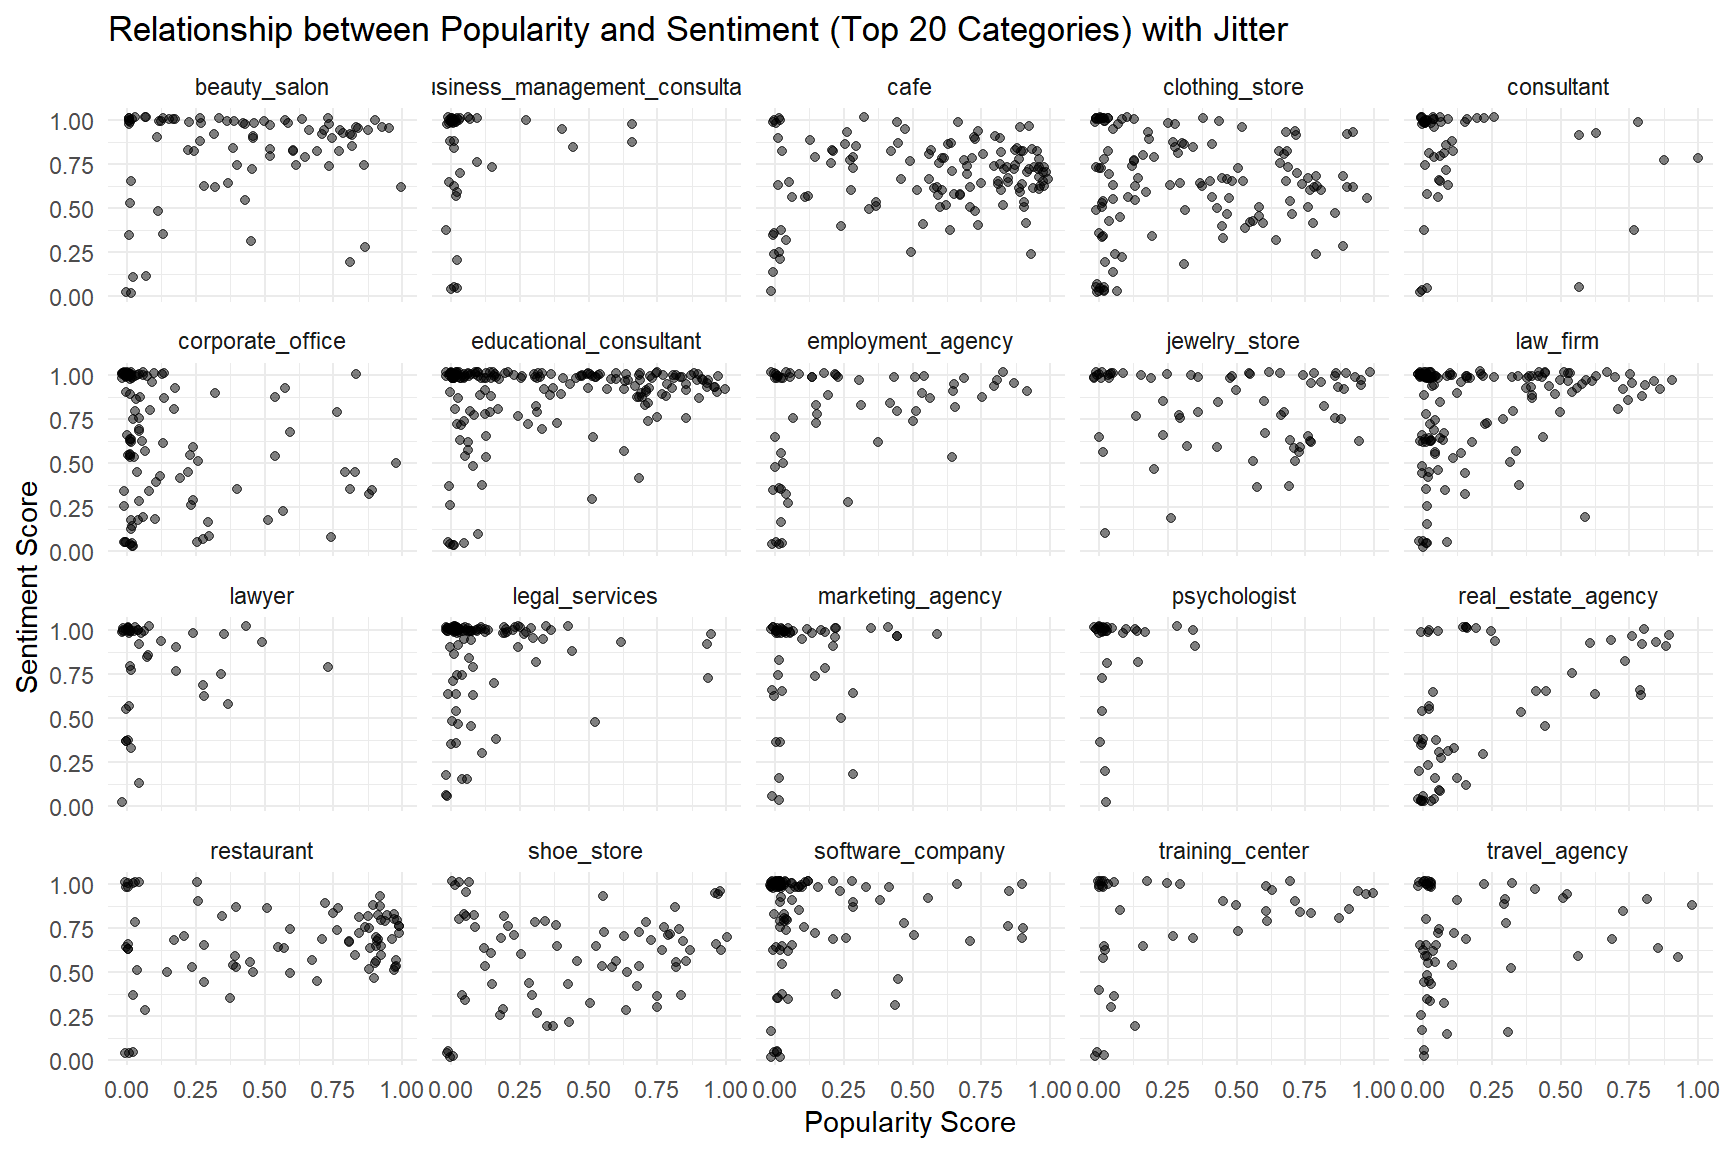
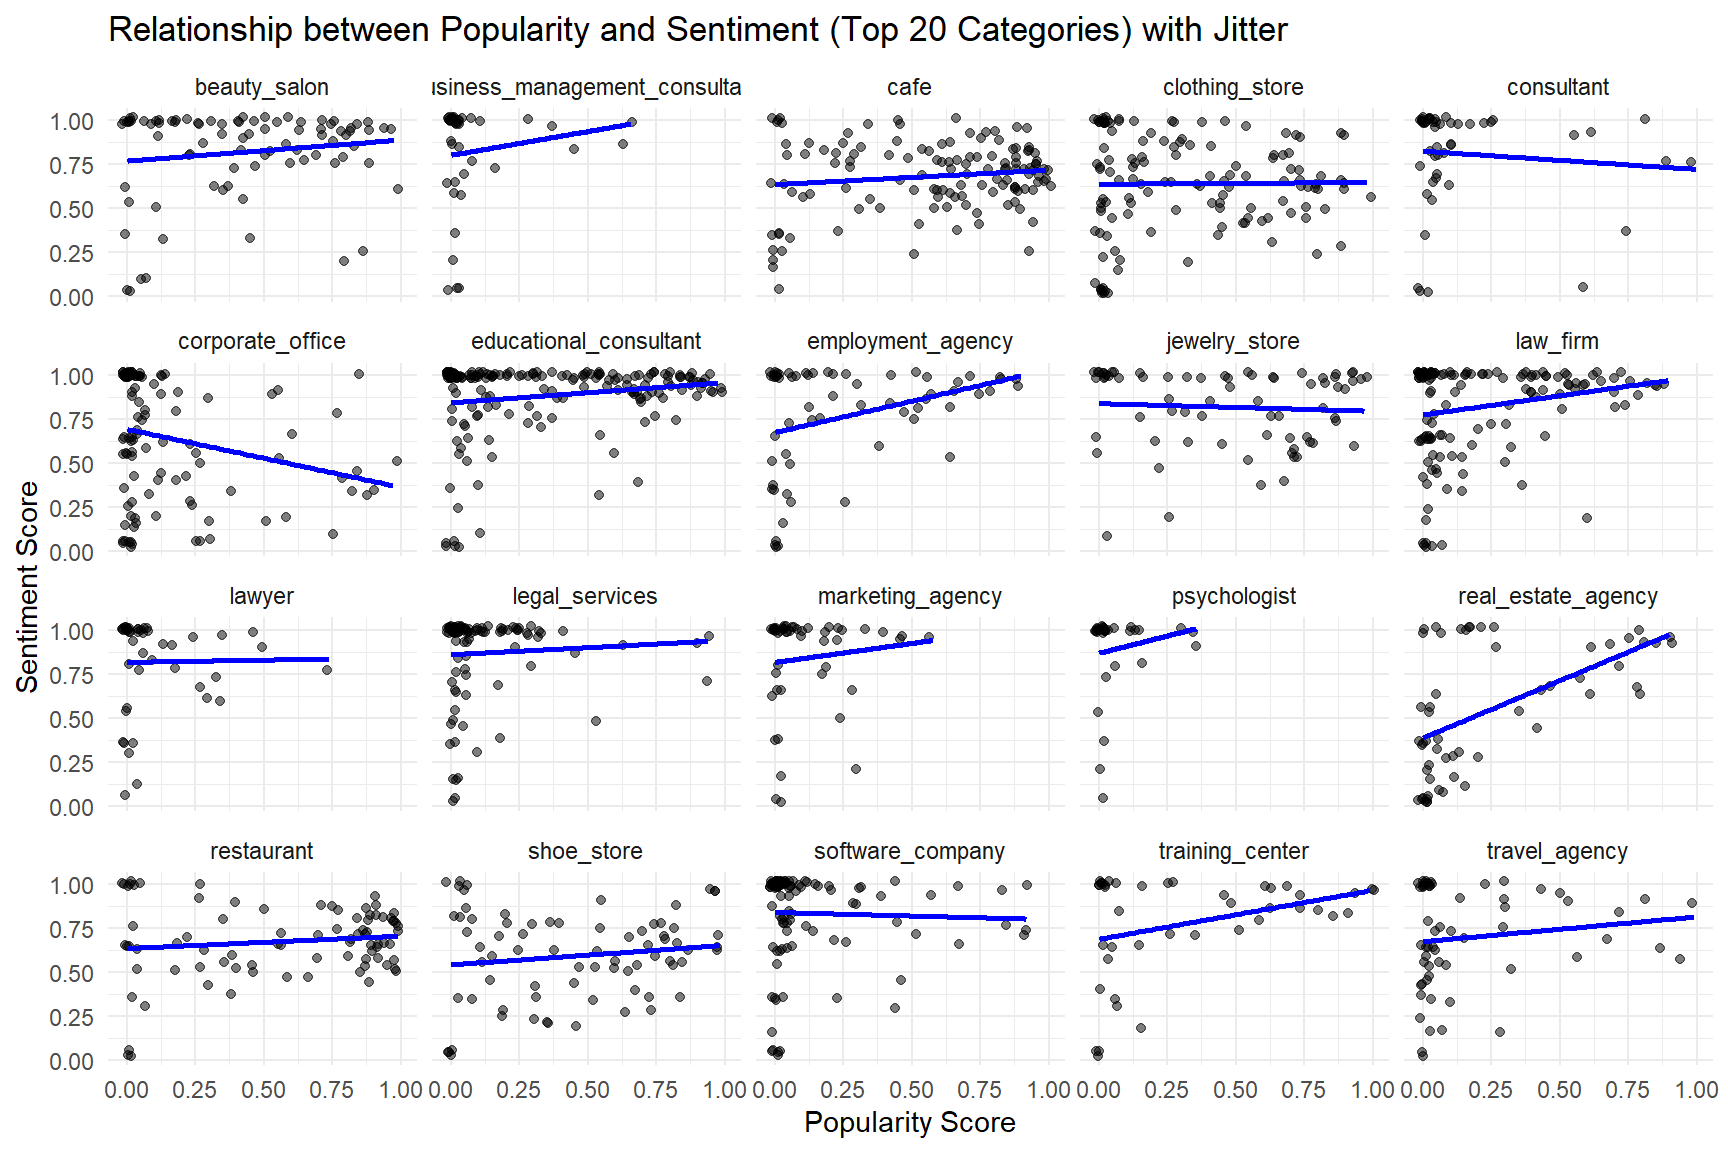
s

diff --git a/docs/index.html b/docs/index.html
@@ -12,7 +12,7 @@
 <meta name="author" content="Sebastián Sánchez Cuartas" />
 
 
-<title>Take-Home Assessment</title>
+<title>Technical Assessment: Data Analysis Exercise for Candidate Evaluation</title>
 
 <script src="site_libs/header-attrs-2.14/header-attrs.js"></script>
 <script src="site_libs/jquery-3.6.0/jquery-3.6.0.min.js"></script>
@@ -423,7 +423,8 @@ div.tocify {
 
 
 
-<h1 class="title toc-ignore">Take-Home Assessment</h1>
+<h1 class="title toc-ignore">Technical Assessment: Data Analysis
+Exercise for Candidate Evaluation</h1>
 <h4 class="author">Sebastián Sánchez Cuartas</h4>
 
 </div>
@@ -445,6 +446,84 @@ blockquote {
 }
 </style>
 <p>_____________________________________________________________________________________________________________________________________</p>
+<div id="assignment-overview" class="section level2">
+<h2><strong>Assignment Overview</strong></h2>
+<p>The goal of this assessment is to evaluate the candidate’s technical
+and analytical skills. The task involves analyzing a sample dataset from
+a client in the Consumer-Packaged Goods (CPG) sector to generate
+actionable insights. Here are the details provided for the
+assignment:</p>
+<p><strong>Task Details</strong></p>
+<ul>
+<li><strong>Objective</strong>: Identify patterns in the data that can
+inform the client’s marketing and supply chain strategies.</li>
+<li><strong>Tools</strong>: You may use R, Python, or any
+object-oriented programming language.</li>
+<li><strong>Time Limit</strong>: 3 hours. While time management is part
+of the evaluation, the quality of the analysis is prioritized.</li>
+</ul>
+<p><strong>Deliverables</strong></p>
+<ul>
+<li>A Jupyter Notebook or R script with the complete analysis and
+code.</li>
+<li>A brief report (1-2 pages) summarizing findings and recommendations
+for the CPG client.</li>
+</ul>
+<p>_____________________________________________________________________________________________________________________________________</p>
+</div>
+<div id="technical-assessment" class="section level2">
+<h2><strong>Technical Assessment</strong></h2>
+<p><strong>Data Exploration &amp; Quality Control</strong></p>
+<ul>
+<li><div>
+<blockquote>
+<ul>
+<li><p>Load the dataset and explore its structure.</p></li>
+<li><p>Identify any missing values, duplicates, or
+inconsistencies.</p></li>
+<li><p>Provide a summary of the dataset, including variable types,
+record counts, and notable patterns.</p></li>
+<li><p>Ensure data quality for client presentation.</p></li>
+</ul>
+</blockquote>
+</div></li>
+</ul>
+<p><strong>Data Cleaning</strong></p>
+<ul>
+<li><div>
+<blockquote>
+<ul>
+<li><p>Address missing or inconsistent values, and document the
+approach.</p></li>
+<li><p>Standardize names, regions, and other key fields for accurate
+reporting.</p></li>
+</ul>
+</blockquote>
+</div></li>
+</ul>
+<p><strong>Exploratory Data Analysis (EDA)</strong></p>
+<ul>
+<li><div>
+<blockquote>
+<ul>
+<li><p>Conduct exploratory analysis to identify trends or
+patterns.</p></li>
+<li><p>Focus on key fields and present insights in the final
+report.</p></li>
+</ul>
+</blockquote>
+</div></li>
+</ul>
+<p><strong>SQL Query</strong></p>
+<ul>
+<li><div>
+<blockquote>
+<p>Write a SQL query to extract counts by the main category.</p>
+</blockquote>
+</div></li>
+</ul>
+<p>_____________________________________________________________________________________________________________________________________</p>
+</div>
 <div id="data-cleaning-and-preparation" class="section level2">
 <h2><strong>(1) Data Cleaning and Preparation</strong></h2>
 <div class="sourceCode" id="cb1"><pre class="sourceCode r"><code class="sourceCode r"><span id="cb1-1"><a href="#cb1-1" tabindex="-1"></a><span class="fu">library</span>(dplyr)</span>
@@ -676,11 +755,12 @@ Business Categories</strong></h2>
 <div class="sourceCode" id="cb13"><pre class="sourceCode r"><code class="sourceCode r"><span id="cb13-1"><a href="#cb13-1" tabindex="-1"></a><span class="co"># Faceted plot for the main business_categories using jitter to avoid overlap</span></span>
 <span id="cb13-2"><a href="#cb13-2" tabindex="-1"></a><span class="fu">ggplot</span>(data_top, <span class="fu">aes</span>(<span class="at">x =</span> popularity_score, <span class="at">y =</span> sentiment_score)) <span class="sc">+</span></span>
 <span id="cb13-3"><a href="#cb13-3" tabindex="-1"></a>  <span class="fu">geom_jitter</span>(<span class="at">alpha =</span> <span class="fl">0.5</span>, <span class="at">width =</span> <span class="fl">0.02</span>, <span class="at">height =</span> <span class="fl">0.02</span>) <span class="sc">+</span>  <span class="co"># Adjust &#39;width&#39; and &#39;height&#39; as needed</span></span>
-<span id="cb13-4"><a href="#cb13-4" tabindex="-1"></a>  <span class="fu">facet_wrap</span>(<span class="sc">~</span> business_category) <span class="sc">+</span></span>
-<span id="cb13-5"><a href="#cb13-5" tabindex="-1"></a>  <span class="fu">theme_minimal</span>() <span class="sc">+</span></span>
-<span id="cb13-6"><a href="#cb13-6" tabindex="-1"></a>  <span class="fu">xlab</span>(<span class="st">&quot;Popularity Score&quot;</span>) <span class="sc">+</span></span>
-<span id="cb13-7"><a href="#cb13-7" tabindex="-1"></a>  <span class="fu">ylab</span>(<span class="st">&quot;Sentiment Score&quot;</span>) <span class="sc">+</span></span>
-<span id="cb13-8"><a href="#cb13-8" tabindex="-1"></a>  <span class="fu">ggtitle</span>(<span class="st">&quot;Relationship between Popularity and Sentiment (Top 20 Categories) with Jitter&quot;</span>)</span></code></pre></div>
+<span id="cb13-4"><a href="#cb13-4" tabindex="-1"></a>  <span class="fu">geom_smooth</span>(<span class="at">method =</span> <span class="st">&quot;lm&quot;</span>, <span class="at">se =</span> <span class="cn">FALSE</span>, <span class="at">color =</span> <span class="st">&quot;blue&quot;</span>) <span class="sc">+</span></span>
+<span id="cb13-5"><a href="#cb13-5" tabindex="-1"></a>  <span class="fu">facet_wrap</span>(<span class="sc">~</span> business_category) <span class="sc">+</span></span>
+<span id="cb13-6"><a href="#cb13-6" tabindex="-1"></a>  <span class="fu">theme_minimal</span>() <span class="sc">+</span></span>
+<span id="cb13-7"><a href="#cb13-7" tabindex="-1"></a>  <span class="fu">xlab</span>(<span class="st">&quot;Popularity Score&quot;</span>) <span class="sc">+</span></span>
+<span id="cb13-8"><a href="#cb13-8" tabindex="-1"></a>  <span class="fu">ylab</span>(<span class="st">&quot;Sentiment Score&quot;</span>) <span class="sc">+</span></span>
+<span id="cb13-9"><a href="#cb13-9" tabindex="-1"></a>  <span class="fu">ggtitle</span>(<span class="st">&quot;Relationship between Popularity and Sentiment (Top 20 Categories) with Jitter&quot;</span>)</span></code></pre></div>
 <p><img src="index_files/figure-html/unnamed-chunk-6-1.png" width="100%" /></p>
 <div class="sourceCode" id="cb14"><pre class="sourceCode r"><code class="sourceCode r"><span id="cb14-1"><a href="#cb14-1" tabindex="-1"></a><span class="co"># Justification: Filtering the 20 most common categories helps focus the analysis on those with greater relevance. This avoids visual overload and facilitates the interpretation of the graphs and results.</span></span>
 <span id="cb14-2"><a href="#cb14-2" tabindex="-1"></a></span>
@@ -780,6 +860,94 @@ Open/Closed Status</strong></h2>
 ## 13        transportation_services            114
 ## 14                         travel            266
 ## 15                  uncategorized              3</code></pre>
+<p>_____________________________________________________________________________________________________________________________________</p>
+</div>
+<div id="data-analysis-report" class="section level2">
+<h2><strong>(10) Data Analysis Report</strong></h2>
+<p>This report is structured according to the points enumerated in the R
+code and corresponding graphics. The following presents the results and
+analysis:</p>
+<p>1.      <strong>Data Cleaning and Preparation</strong><br />
+Data cleaning and preparation were performed to ensure quality and
+consistency. This included removing duplicates, normalizing formats, and
+converting columns to appropriate data types.</p>
+<p>2.      <strong>Missing Values Visualization</strong><br />
+A visualization of missing values in the dataset was generated. This
+helped identify patterns of missing data, allowing for a quick
+assessment of the magnitude of missing values across different
+variables, which aids in planning imputation strategies.</p>
+<p>3.      <strong>Imputation of Missing Values and Comparative
+Analysis</strong><br />
+Imputation methods were applied to handle missing values, such as median
+imputation for the variables <em>popularity_score</em> and
+<em>sentiment_score</em>, which are crucial for understanding the
+success of each business. A comparative analysis was conducted before
+and after the imputation to assess the impact of this technique on the
+distribution of metrics. It was decided to proceed with the imputed
+data, accepting a slight sacrifice in variability.</p>
+<p>4.      <strong>Distribution of Main Business
+Categories</strong><br />
+The distribution of main business categories was examined, providing
+insights into the variety and concentration of businesses in each
+category. This helps identify the most representative categories that
+require more attention, with <em>professional_services</em> being the
+most frequent. To gain deeper insights, the <em>business_category</em>
+variable was further analyzed, establishing a relationship with the
+imputed variables: <em>popularity_score</em> and
+<em>sentiment_score</em>.</p>
+<p>5.      <strong>Summary of Popularity and Sentiment by Business
+Category</strong><br />
+A summary was created detailing popularity and sentiment by business
+category. This analysis reveals how these metrics are related, providing
+valuable insights into which categories have greater recognition and a
+better overall perception, as well as identifying their respective
+<em>main_category</em>.</p>
+<p>6.      <strong>Relationship Between Popularity and Sentiment for Top
+Business Categories</strong><br />
+The relationship between popularity and sentiment was explored for the
+top business categories. The 20 most important categories were selected,
+and the faceted plot revealed that most categories show low popularity
+with high sentiment scores. This suggests the need for strategies to
+boost popularity, leveraging the positive sentiment already present.</p>
+<p>7.      <strong>Distribution of Popularity and Sentiment Scores by
+Business Category</strong><br />
+The distribution of <em>popularity_score</em> and
+<em>sentiment_score</em> by business category was visualized. This
+approach provides a clearer perspective on how these metrics are
+distributed, visually confirming the observations from the previous
+analysis.</p>
+<p>8.      <strong>Analysis of Popularity and Sentiment Based on
+Business Open/Closed Status</strong><br />
+An analysis of popularity and sentiment based on the open or closed
+status of businesses was conducted using t-tests. The results
+showed:</p>
+<blockquote>
+<div class="line-block">o    <strong>T-Test for Popularity</strong>: A
+significant p-value (&lt; 0.05) indicates a difference between the
+popularity of open businesses (0.3173) and closed businesses (0.2744),
+suggesting that higher popularity scores correlate with a greater
+likelihood of remaining open.</div>
+</blockquote>
+<blockquote>
+<div class="line-block">o    <strong>T-Test for Sentiment</strong>: A
+very low p-value indicates that open businesses have a higher average
+sentiment score (0.7637) compared to closed businesses (0.6738),
+implying that businesses with a positive perception are more likely to
+remain operational.</div>
+</blockquote>
+<p>Based on this, it is recommended that the client focus on improving
+the perception of their businesses, as this could increase the
+likelihood of remaining open.</p>
+</div>
+<div id="conclusion" class="section level2">
+<h2><strong>(11) Conclusion</strong></h2>
+<p>In summary, the analysis reveals that both popularity and positive
+perception are critical factors for business sustainability.
+Implementing strategies that encourage higher popularity and a positive
+perception can significantly contribute to the operational continuity of
+businesses in the market. Additionally, considering the geographic
+coordinates available in the dataset, spatial analysis could provide
+further insights into regional trends and opportunities.</p>
 </div>
 
 
